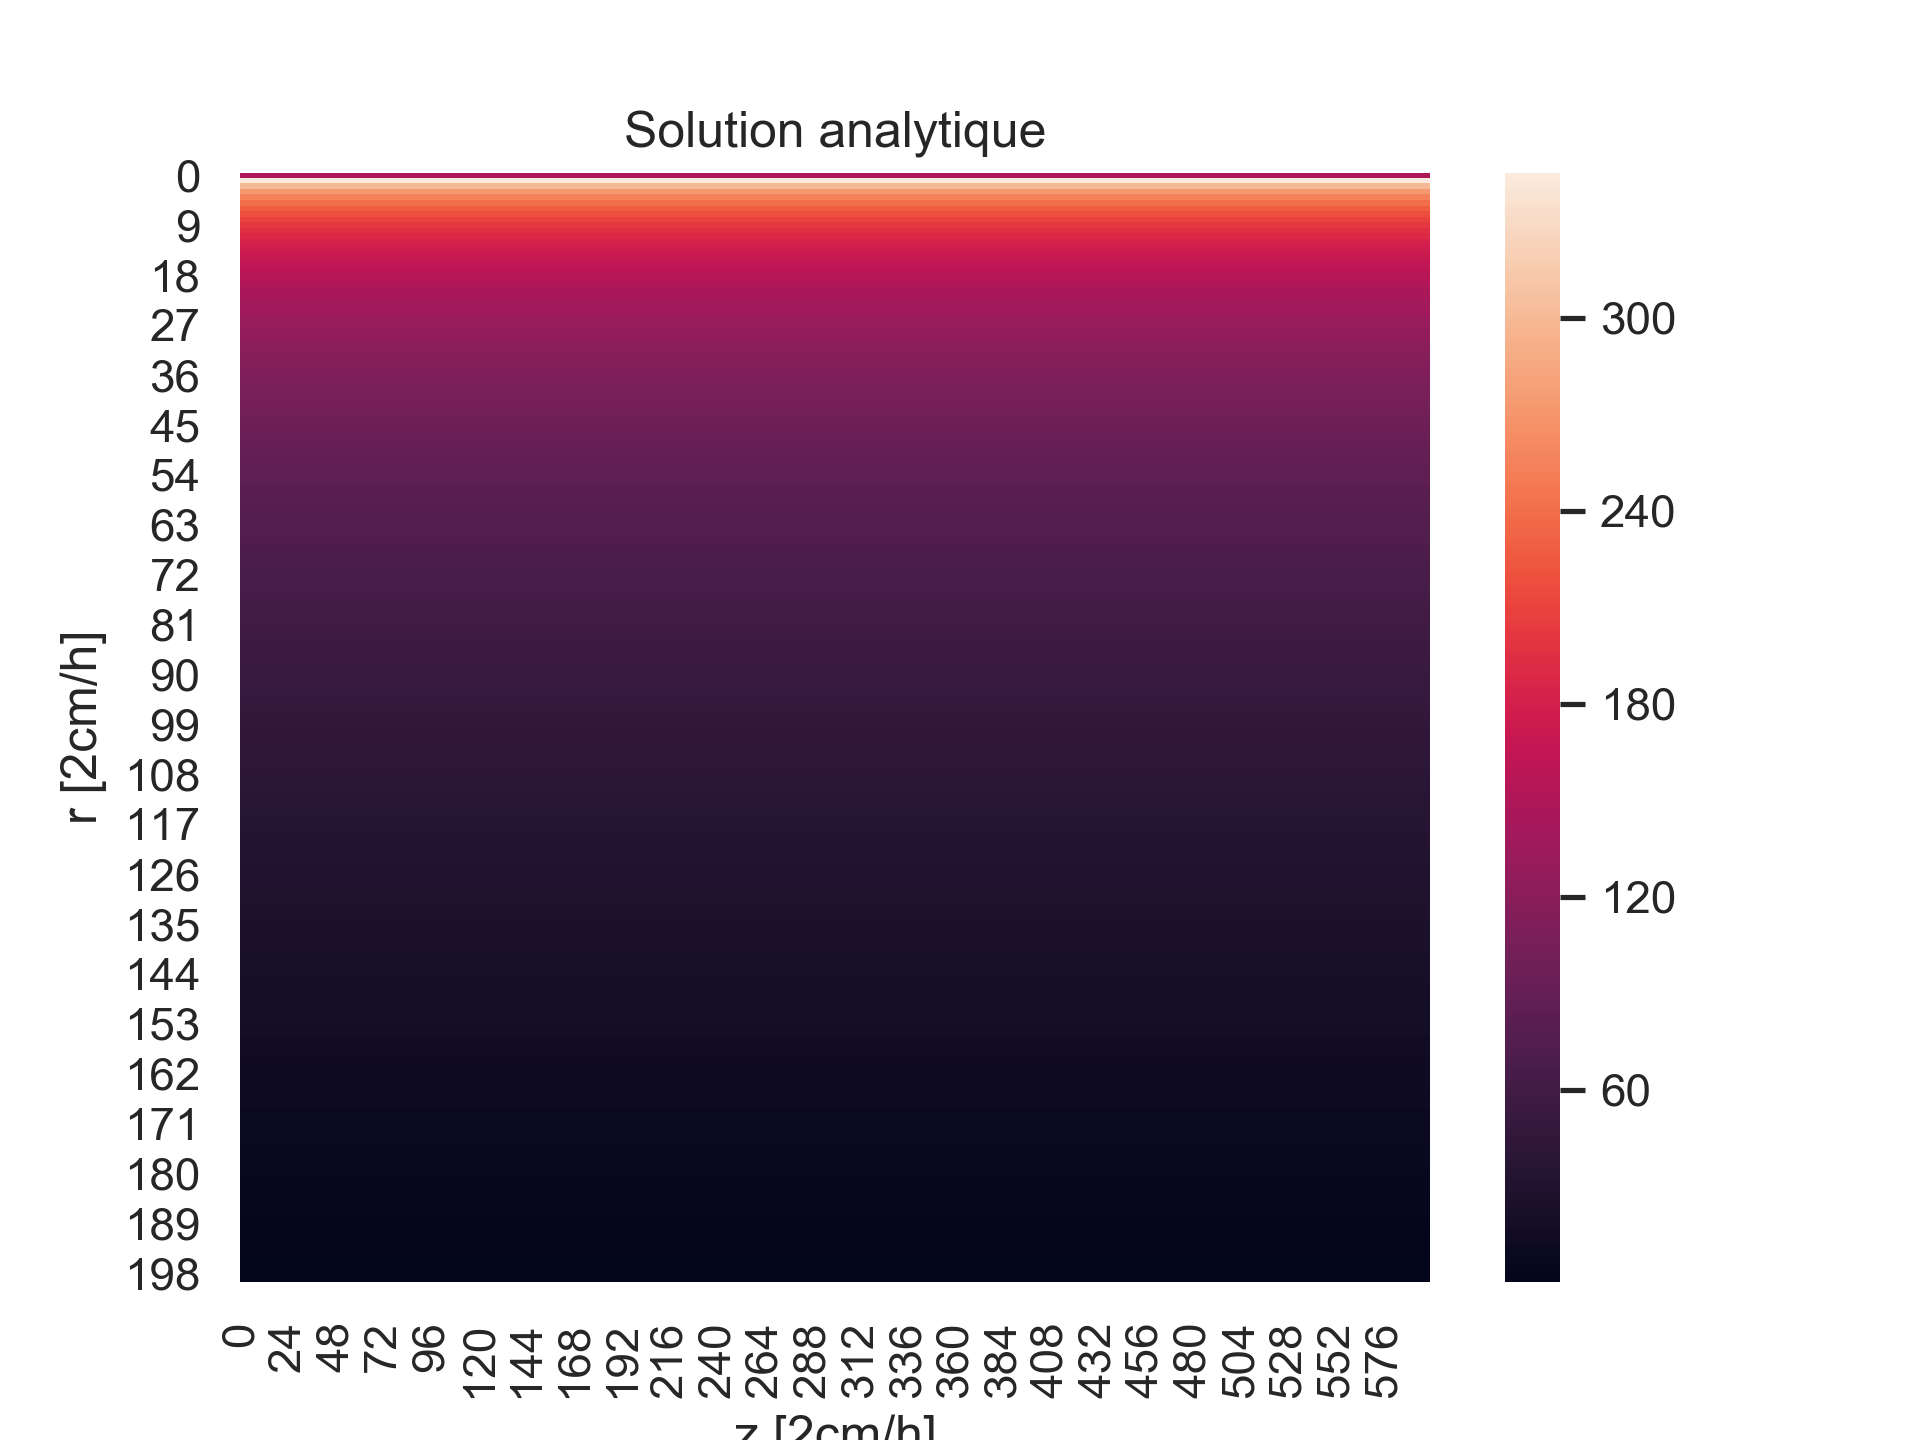
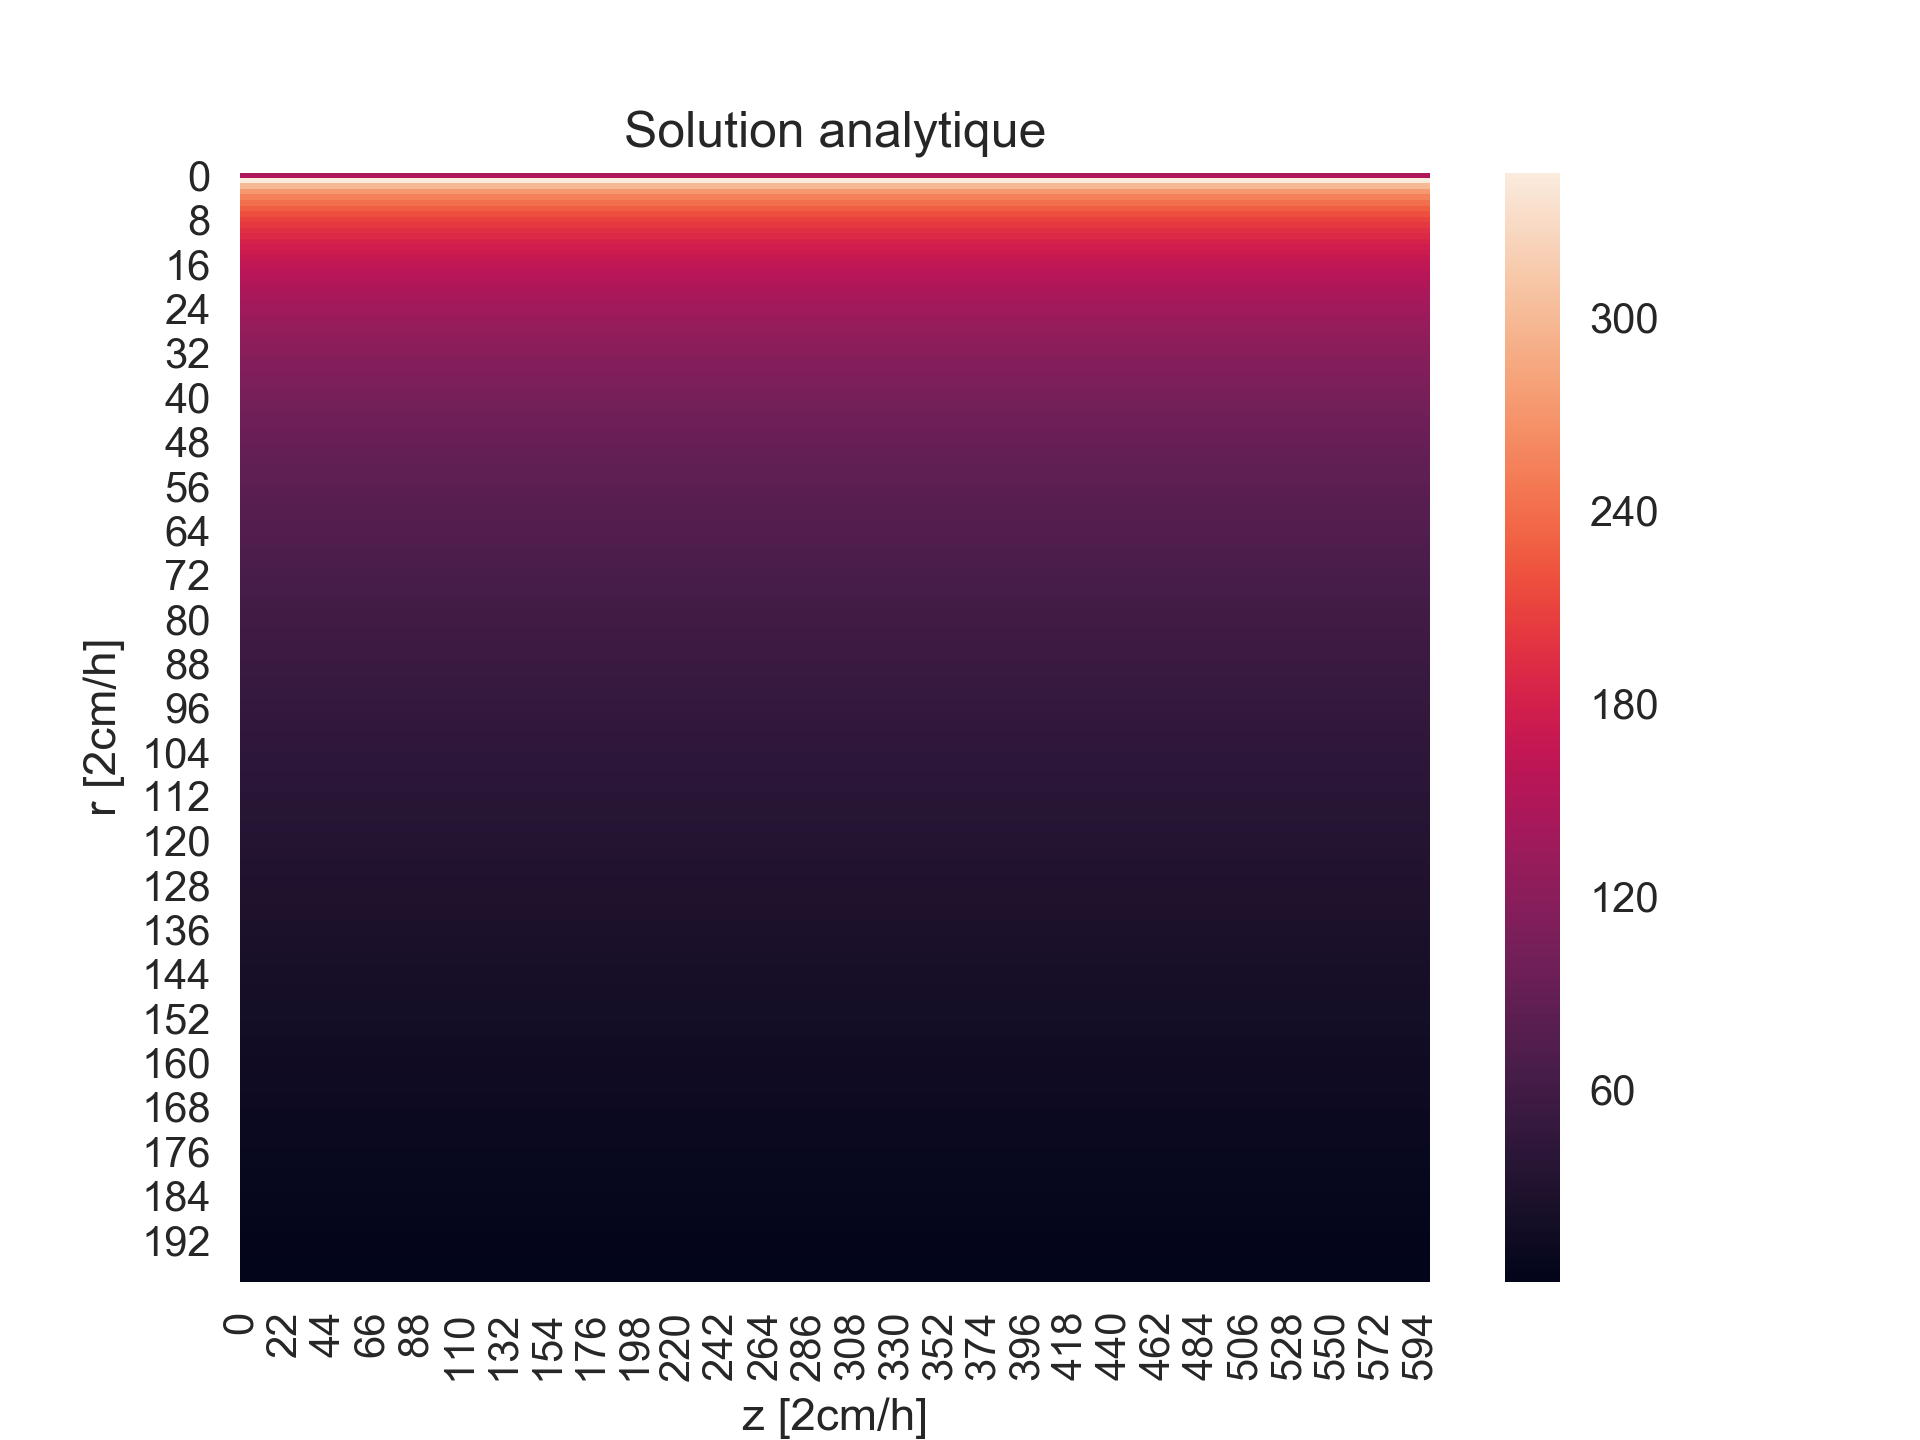
tanné

diff --git a/Relaxation.py b/Relaxation.py
@@ -14,8 +14,9 @@ class Relaxation:
         self.terminal: bool = False
         self.difference_courante: float = np.inf
         self.erreur: float = kwargs.get("erreur", 1e1)
-        self.h = kwargs.get("h", 1)
+        self.h_par_indice = kwargs.get("h_par_indice", 1)
         self.nom = kwargs.get("nom", "carte_de_chaleur")
+        self.mask_erreur = None
 
         self.appliquer_frontieres()
 
@@ -30,7 +31,7 @@ class Relaxation:
         r = np.indices(self.grille.shape)[0][2:-2, 2:-2]
         prochaine_grille[2:-2, 2:-2] = (self.grille[:-4, 2:-2] + self.grille[4:, 2:-2]
                                         + self.grille[2:-2, :-4] + self.grille[2:-2, 4:])/4 \
-                                        + (self.grille[3:-1, 2:-2] - self.grille[1:-3, 2:-2])/(r*4)
+                                        + (self.grille[3:-1, 2:-2] - self.grille[1:-3, 2:-2])/(r*2)
 
         self.grille = prochaine_grille
         self.appliquer_frontieres()
@@ -40,11 +41,26 @@ class Relaxation:
         return self.grille, self.iteration
 
     def calcul_erreur(self):
-        if self.grille_precedente is not None:
-            gv = self.grille[np.invert(self.frontieres.mask)].flatten()
-            gnv = self.grille_precedente[np.invert(self.frontieres.mask)].flatten()
-            chng = np.sqrt(np.sum((gv - gnv) ** 2))
-            self.difference_courante = chng
+        if self.iteration == 1:
+            mask_shape = self.grille[2:-2, 2:-2].shape
+            mask = np.ones(mask_shape)
+            for i in range(0,mask_shape[0]):
+                if (i % 2) != 0:
+                    mask[i, :] = np.zeros((mask_shape[1]))
+            for j in range(0,mask_shape[1]):
+                if (j % 2) != 0:
+                    mask[:, j] = np.zeros((mask_shape[0]))
+            self.mask_erreur = mask
+
+        grille_erreur = self.grille.copy()
+        grille_erreur_precedente = self.grille_precedente.copy()
+        grille_erreur[2:-2, 2:-2] = (grille_erreur[2:-2, 2:-2] + grille_erreur[1:-3, 2:-2]
+                                        + grille_erreur[2:-2, 1:-3])/4
+        grille_erreur_precedente[2:-2, 2:-2] = (grille_erreur_precedente[2:-2, 2:-2] + grille_erreur_precedente[1:-3, 2:-2]
+                                        + grille_erreur_precedente[2:-2, 1:-3])/4
+        erreur = np.ma.sum((np.ma.masked_where(self.mask_erreur, grille_erreur[2:-2, 2:-2]) - np.ma.masked_where(self.mask_erreur, grille_erreur_precedente[2:-2, 2:-2]))**2)
+        self.difference_courante = np.sqrt(erreur)
+        print(self.difference_courante)
 
     def verification_terminal(self):
         self.terminal = self.difference_courante <= self.erreur
@@ -139,20 +155,21 @@ class RelaxationGaussSeidel(Relaxation):
 class SurRelaxation(Relaxation):
     def __init__(self, grille: np.ndarray, frontieres: np.ma.MaskedArray, **kwargs):
         super(SurRelaxation, self).__init__(grille, frontieres, **kwargs)
-        self.w: float = kwargs.get("w", 0.0)
+        self.w: float = kwargs.get("w", 0.0000000000000000000000000000000000000)
 
     def faire_iteration(self):
         self.iteration += 1
         self.grille_precedente = np.copy(self.grille)
+        prochaine_grille = np.copy(self.grille)
 
         r = np.indices(self.grille.shape)[0][2:-2, 2:-2]
-        self.grille[2:-2, 2:-2] = -self.w*self.grille[2:-2, 2:-2] + \
-                                  (1+self.w)*(self.grille[:-4, 2:-2] + self.grille[4:, 2:-2]
+        prochaine_grille[2:-2, 2:-2] = (1-self.w)*self.grille[2:-2, 2:-2] + \
+                                  self.w*(self.grille[:-4, 2:-2] + self.grille[4:, 2:-2]
                                   + self.grille[2:-2, :-4] + self.grille[2:-2, 4:]) / 4 \
-                                  + (1+self.w)*(self.grille[3:-1, 2:-2] - self.grille[1:-3, 2:-2]) / (r * 4)
+                                  + self.w*(self.grille[3:-1, 2:-2] - self.grille[1:-3, 2:-2]) / (r * 2)
 
+        self.grille = prochaine_grille
         self.appliquer_frontieres()
-
         self.calcul_erreur()
         self.verification_terminal()
 
@@ -165,10 +182,11 @@ class SurRelaxationGaussSeidel(SurRelaxation):
         self.grille_precedente = np.copy(self.grille)
 
         r = np.indices(self.grille.shape)[0][2:-2, 2:-2]
+
         self.grille[2:-2, 2:-2] = -self.w*self.grille[2:-2, 2:-2] \
-                                  (1+self.w)*(self.grille[:-4, 2:-2] + self.grille[4:, 2:-2]
+                                  + (1+self.w)*(self.grille[:-4, 2:-2] + self.grille[4:, 2:-2]
                                   + self.grille[2:-2, :-4] + self.grille[2:-2, 4:]) / 4 \
-                                  + (1+self.w)*(self.grille[3:-1, 2:-2] - self.grille[1:-3, 2:-2]) / (r * 4)
+                                  + (1+self.w)*(self.grille[3:-1, 2:-2] - self.grille[1:-3, 2:-2]) / (r * 2)
 
         self.appliquer_frontieres()
 

diff --git a/Question2c.py b/Question2c.py
@@ -11,22 +11,24 @@ if __name__ == '__main__':
     mask_150V[int(1 / cylindre_1.h) - 1:int(1 / cylindre_1.h) + 1, :] = True
 
     mask_0V = np.zeros(cylindre_1.grille.shape)
-    mask_0V[-1, :] = True
+    mask_0V[-2, :] = True
 
     frontieres = np.ma.array(
         np.where(mask_150V, 150, 0 * cylindre_1.grille) + np.where(mask_0V, 0, 0 * cylindre_1.grille),
         mask=(mask_150V + mask_0V)
     )
-
+    """
     # Question c i
+
     relax_gauss = RelaxationGaussSeidel(grille=cylindre_1.grille, frontieres=frontieres, h=h, erreur=-np.inf,
                                         nom="Carte de chaleur problème 2ci")
     relax_gauss(12_029, verbose=False, affichage=False)
     relax_gauss.afficher_etat()
     relax_gauss.afficher_carte_de_chaleur()
-
+    """
     # Question c ii
-    # sur_relax = SurRelaxation(grille=cylindre_1.grille, frontieres=frontieres, h=h, erreur=-np.inf,
-    #                           nom="Carte de chaleur problème 2cii", w=1.5)
-    # sur_relax(12_030, verbose=True, affichage=False)
-    # sur_relax.afficher_carte_de_chaleur()
+    sur_relax = SurRelaxation(grille=cylindre_1.grille, frontieres=frontieres, h_par_indice=0.5, erreur=0.1,
+                              nom="Carte de chaleur problème 2cii", w=1.0009)
+    sur_relax(12_030, verbose=True, affichage=False)
+    sur_relax.afficher_carte_de_chaleur()
+

diff --git a/Question2b.py b/Question2b.py
@@ -38,7 +38,7 @@ if __name__ == '__main__':
     mask_150V[int(1/cylindre_1.h)-1:int(1/cylindre_1.h)+1, :] = True
 
     mask_0V = np.zeros(cylindre_1.grille.shape)
-    mask_0V[-1, :] = True
+    mask_0V[-2, :] = True
 
     print(mask_150V+mask_0V)
 
@@ -51,7 +51,7 @@ if __name__ == '__main__':
 
     solution_analytique(cylindre_1.dimensions, cylindre_1.h)
 
-    relax = Relaxation(grille=cylindre_1.grille, frontieres=frontieres, h=h, erreur=1e-1,
+    relax = Relaxation(grille=cylindre_1.grille, frontieres=frontieres, h_par_indice=0.5, erreur=0.005,
                        nom="Carte de chaleur problème 2b")
     relax(100_000, verbose=True, affichage=False)
     relax.afficher_carte_de_chaleur()
